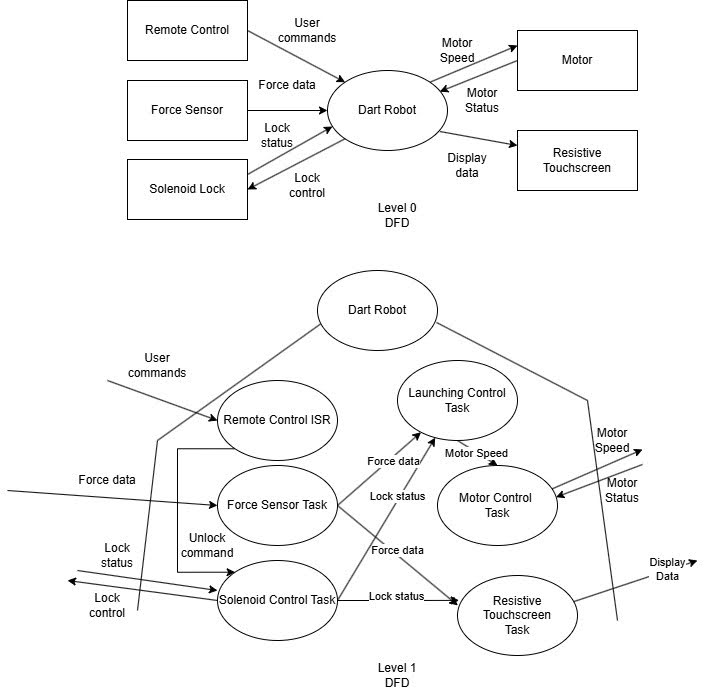
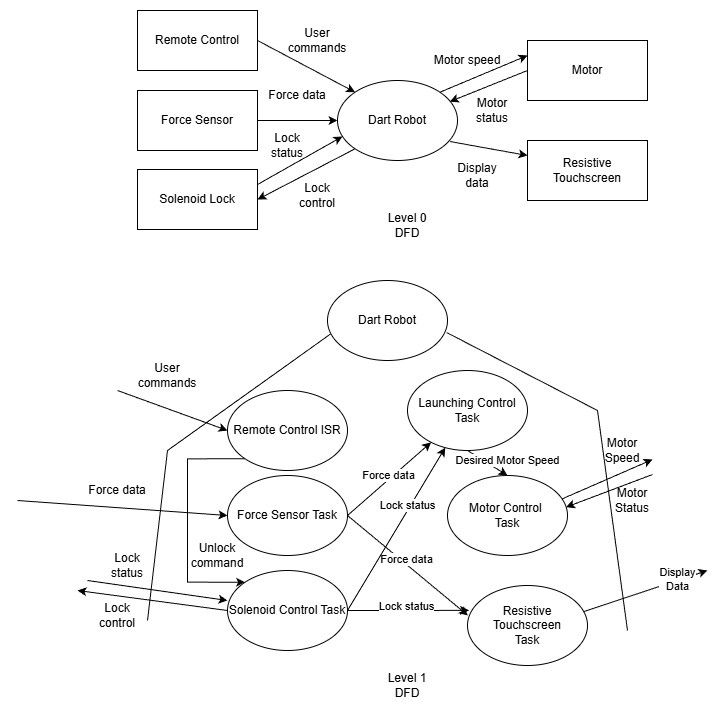
Make changes to elect

diff --git a/docs/Z Dart Robot - Electrical & Software.md b/docs/Z Dart Robot - Electrical & Software.md
@@ -72,7 +72,7 @@ From the User Journey, the functions below were identified.
   <tr>
     <td>System Status and Feedback Display</td>
     <td>
-      Update the touchscreen with motor status, angles, tension, and lock state, and show errors for motor or sensor faults (Not shown but useful).
+      Update the touchscreen with motor status, angles, tension, and lock state, and show errors for motor or sensor faults (Not shown in Figure 7.1 but useful).
     </td>
   </tr>
 
@@ -123,7 +123,7 @@ The design specifications were drafted based on the critical function prototype 
 | Cost of individual items to be bought | < $20 | Provides a financial buffer for crucial industrial mechanical and electrical components in the next prototype. |
 | Electronic Lock Holding force |  > 2 × 23 kgF | Safety factor of 2 and based on 23 kgF derived from the launching mechanical subsystem. |
 | Load cell exictation voltage | 5 V | Common excitation voltage for load cells. **Swappable** once the rated load cell is determined, requiring minimal code/electrical changes. |
-| Touch Screen Electrical Interface| Easy interface with RoboMaster’s Development Board A [1] |  Simplifies wiring with existing hardware. |
+| Touch Screen Electrical Interface| Easy interface with RoboMaster’s Development Board A [2] |  Simplifies wiring with existing hardware. |
 
 
 <div style="text-align:center;">
@@ -219,7 +219,7 @@ Based on the selection criteria, it was a close decision between LVGL and TouchG
 
 ### 7.2.4 Module Testing and Code Development
 
-After selecting the required components, each part was implemented separately and tested with dedicated code to verify correct operation before system integration.
+After selecting the required components, each part was implemented and tested with dedicated code to verify correct operation before system integration. You can view the [testing videos](https://www.youtube.com/playlist?list=PLNnqZhGC3D1AK7iFgLpn61OiXpmc4Bh3g) here.
 
 
 
@@ -280,12 +280,25 @@ Likewise, the software architecture is shown below
   <p class="figure-caption">Figure 7.6: Dart Robot Data Flow Diagram</p>
 </div>
 
-The data flow diagram (DFD) illustrates how data moves within the Dart Robot system. At Level 0, user commands from the remote control, force data from the load cell, and lock status from the solenoid are processed by the Dart Robot, which outputs motor speed, motor status, and display data to the resistive touchscreen. The Level 1 DFD expands this process into specific software tasks within the system. The Remote Control ISR handles user inputs, while the Force Sensor Task processes force data from the sensor. The Solenoid Control Task manages lock control, and the Motor Control Task regulates motor speed and status. The Launching Control Task coordinates between the motor and force sensor for firing operations, and the Resistive Touchscreen Task displays key system data. Together, these tasks define the data interactions and control logic that govern the dart robot’s operation
+The data flow diagram (DFD) illustrates how data moves within the Dart Robot system. At Level 0, user commands from the remote control, force data from the load cell, and lock status from the solenoid are processed by the Dart Robot, which outputs motor speed, motor status, and display data to the resistive touchscreen. 
+
+| **Task / ISR** | **Functionalities** | **Input / Output** |
+|----------------|----------------------|---------------------|
+| Remote Control ISR | Captures controller readings from the RoboMaster Remote Controller | **Input:** User commands<br>**Output:** Unlock commands |
+| Force Sensor Task | Reads load-cell data and computes force values for launch control. | **Input:** Force data<br>**Output:** Force data |
+| Solenoid Control Task | Controls lock engagement and release states. | **Input:** Lock status <br>**Output:** Lock status, Lock control |
+| Motor Control Task | Set the motor speed of the motor based on the desired speed | **Input:**  Desired Motor Speed, Motor Status <br>**Output:** Motor Speed|
+| Launching Control Task | Spins the motor to pull the elastic band until the target force is reached | **Input:** Force data, Lock status <br>**Output:** Desired Motor Speed |
+| Resistive Touchscreen Task | Updates graphical interface with system state and measurements. | **Input:** Force data,  Lock status<br>**Output:** Display Data |
+
+<div style="text-align:center;">
+Table 7.7: Summary of Dart Robot software tasks and their data inputs and utputs
+</div>
 
 ### 7.3.4 Limitations
 The current prototype tested the integration of the different components and demonstrated the expected overall behaviour. However, the strict electrical and software requirements for the final dart robot have not yet been met, as these depend on mechanical specifications that will be available only from November to end December. Once those specifications are provided, software modifications should be straightforward. The motor control task will require only a driver change, and the load cell replacement will require only recalibration.
 
-The control method shown in the prototype video uses simple bang-bang logic. A full elastic-band model must be developed before selecting an appropriate controller. In addition, the feeding controls for the remaining darts have not yet been designed.
+The control method shown in the prototype video uses simple bang-bang logic. A full elastic-band model must be developed before selecting an appropriate controller. In addition, the feeding subsystem controls have not yet been designed.
 
 The prototype also revealed a limitation in the current GUI implementation. The selected GUI library updates correctly during the initial write but does not refresh on subsequent writes, preventing real-time parameter display. The touch-sensing component also shows inaccurate position detection and requires calibration, which will be carried out during the winter holidays. Both issues must be addressed before integrating the GUI into the full control system.
 <br>
